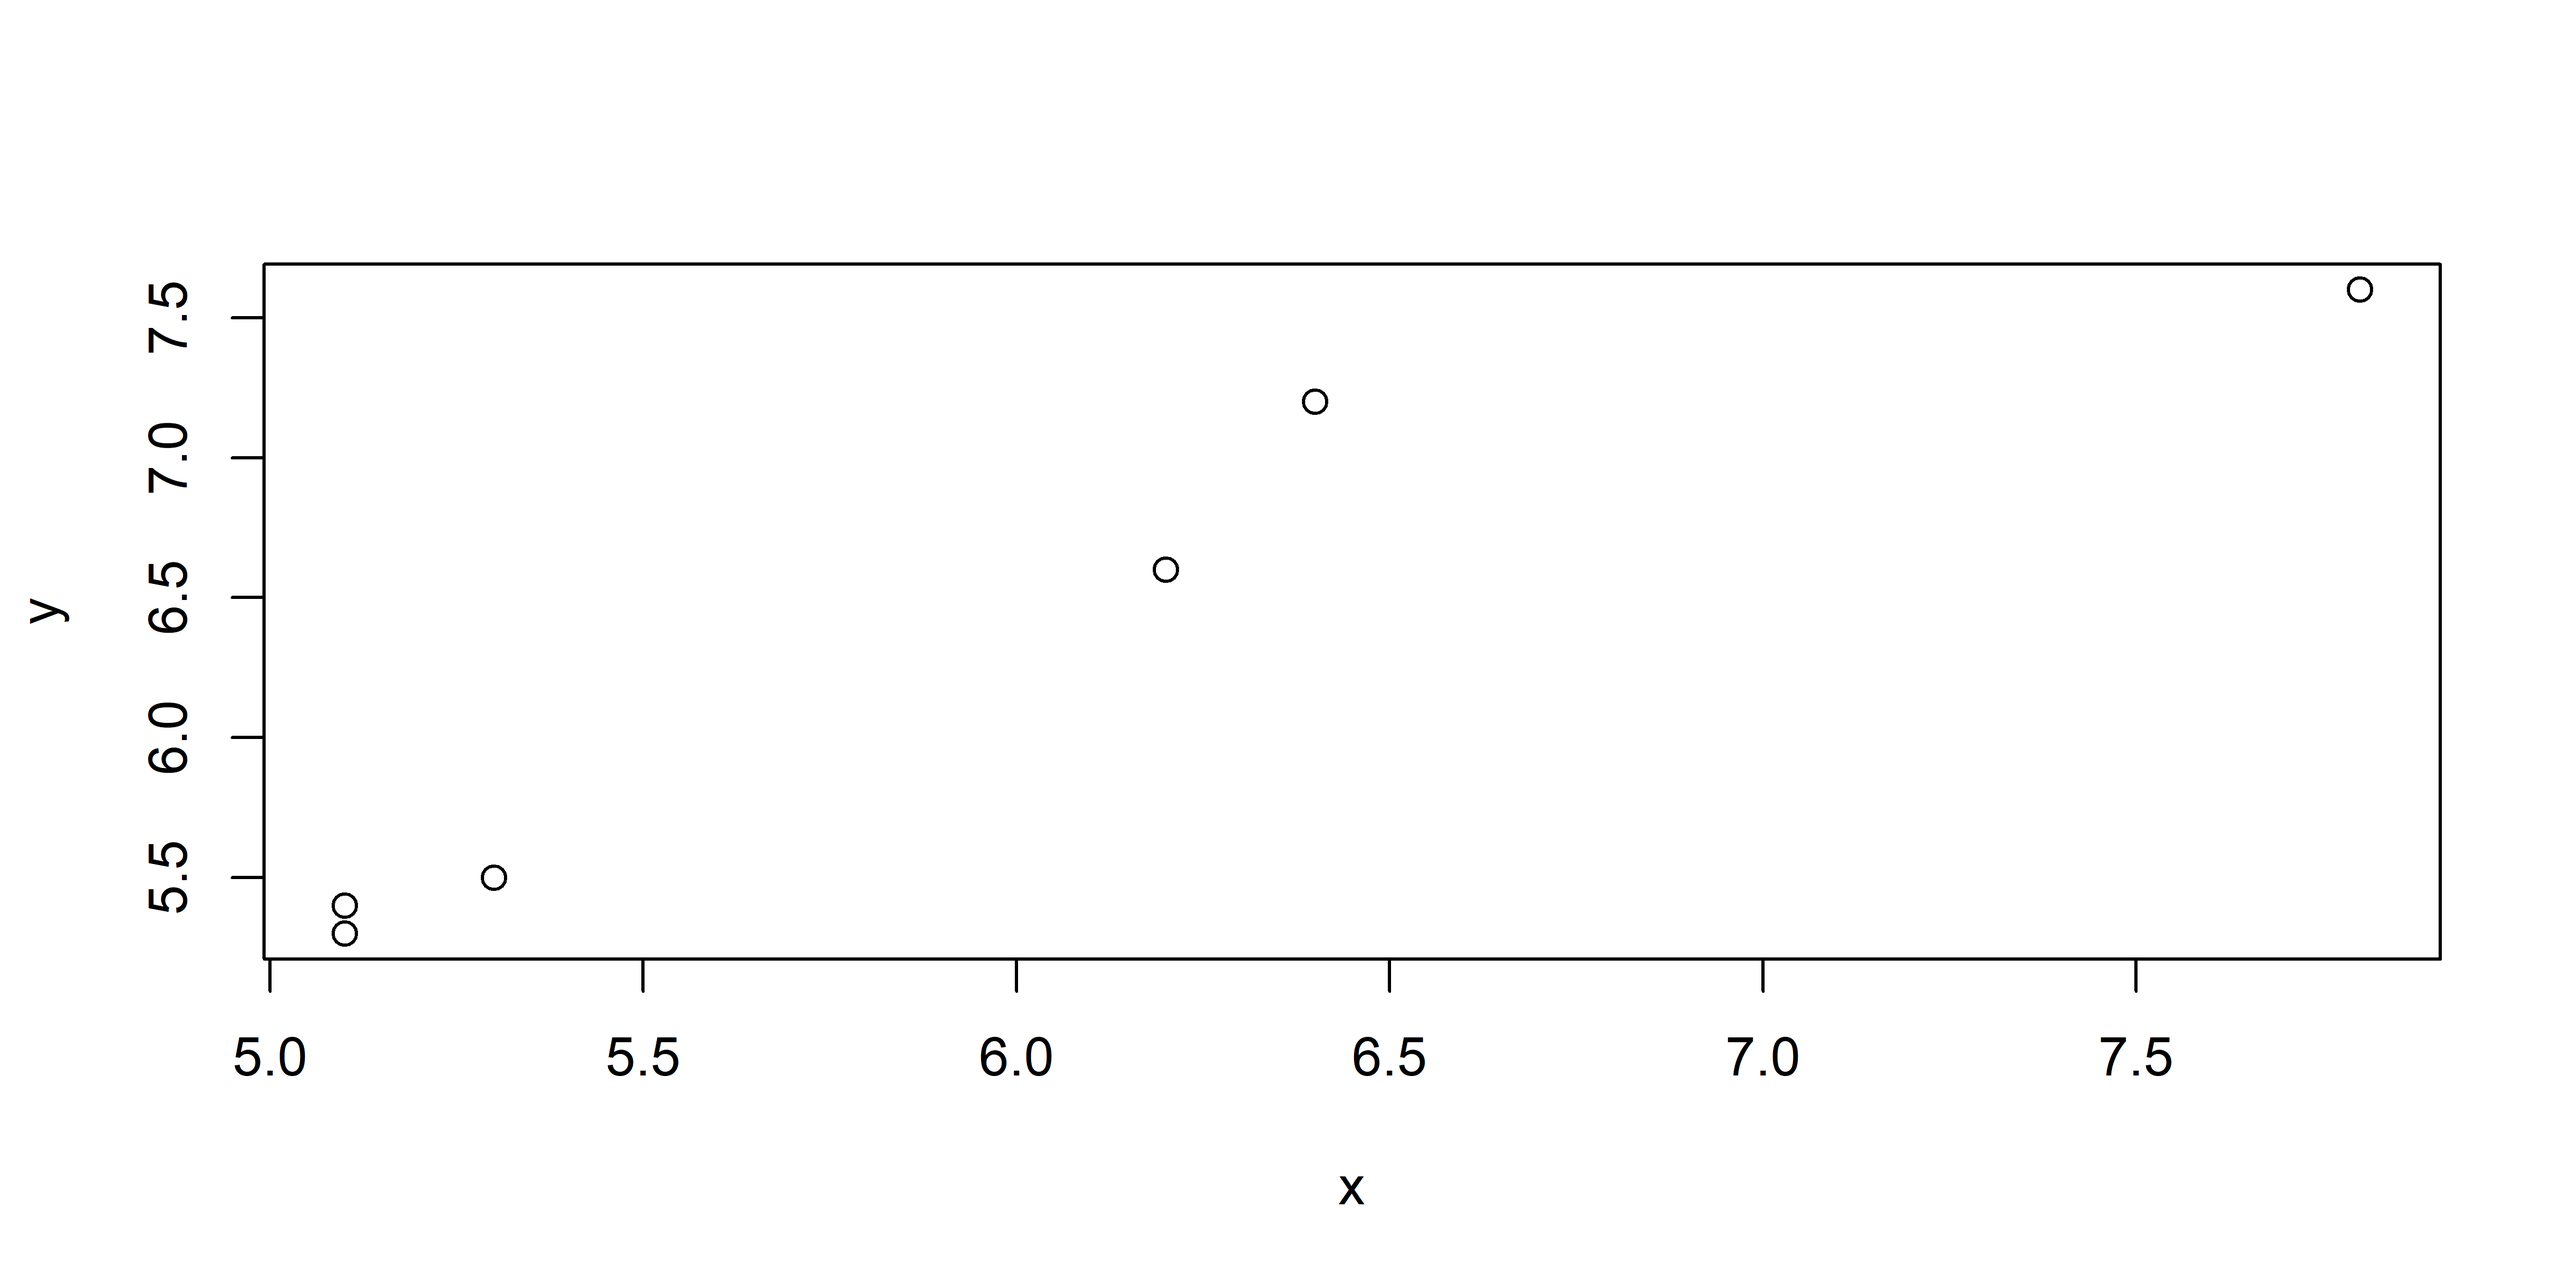
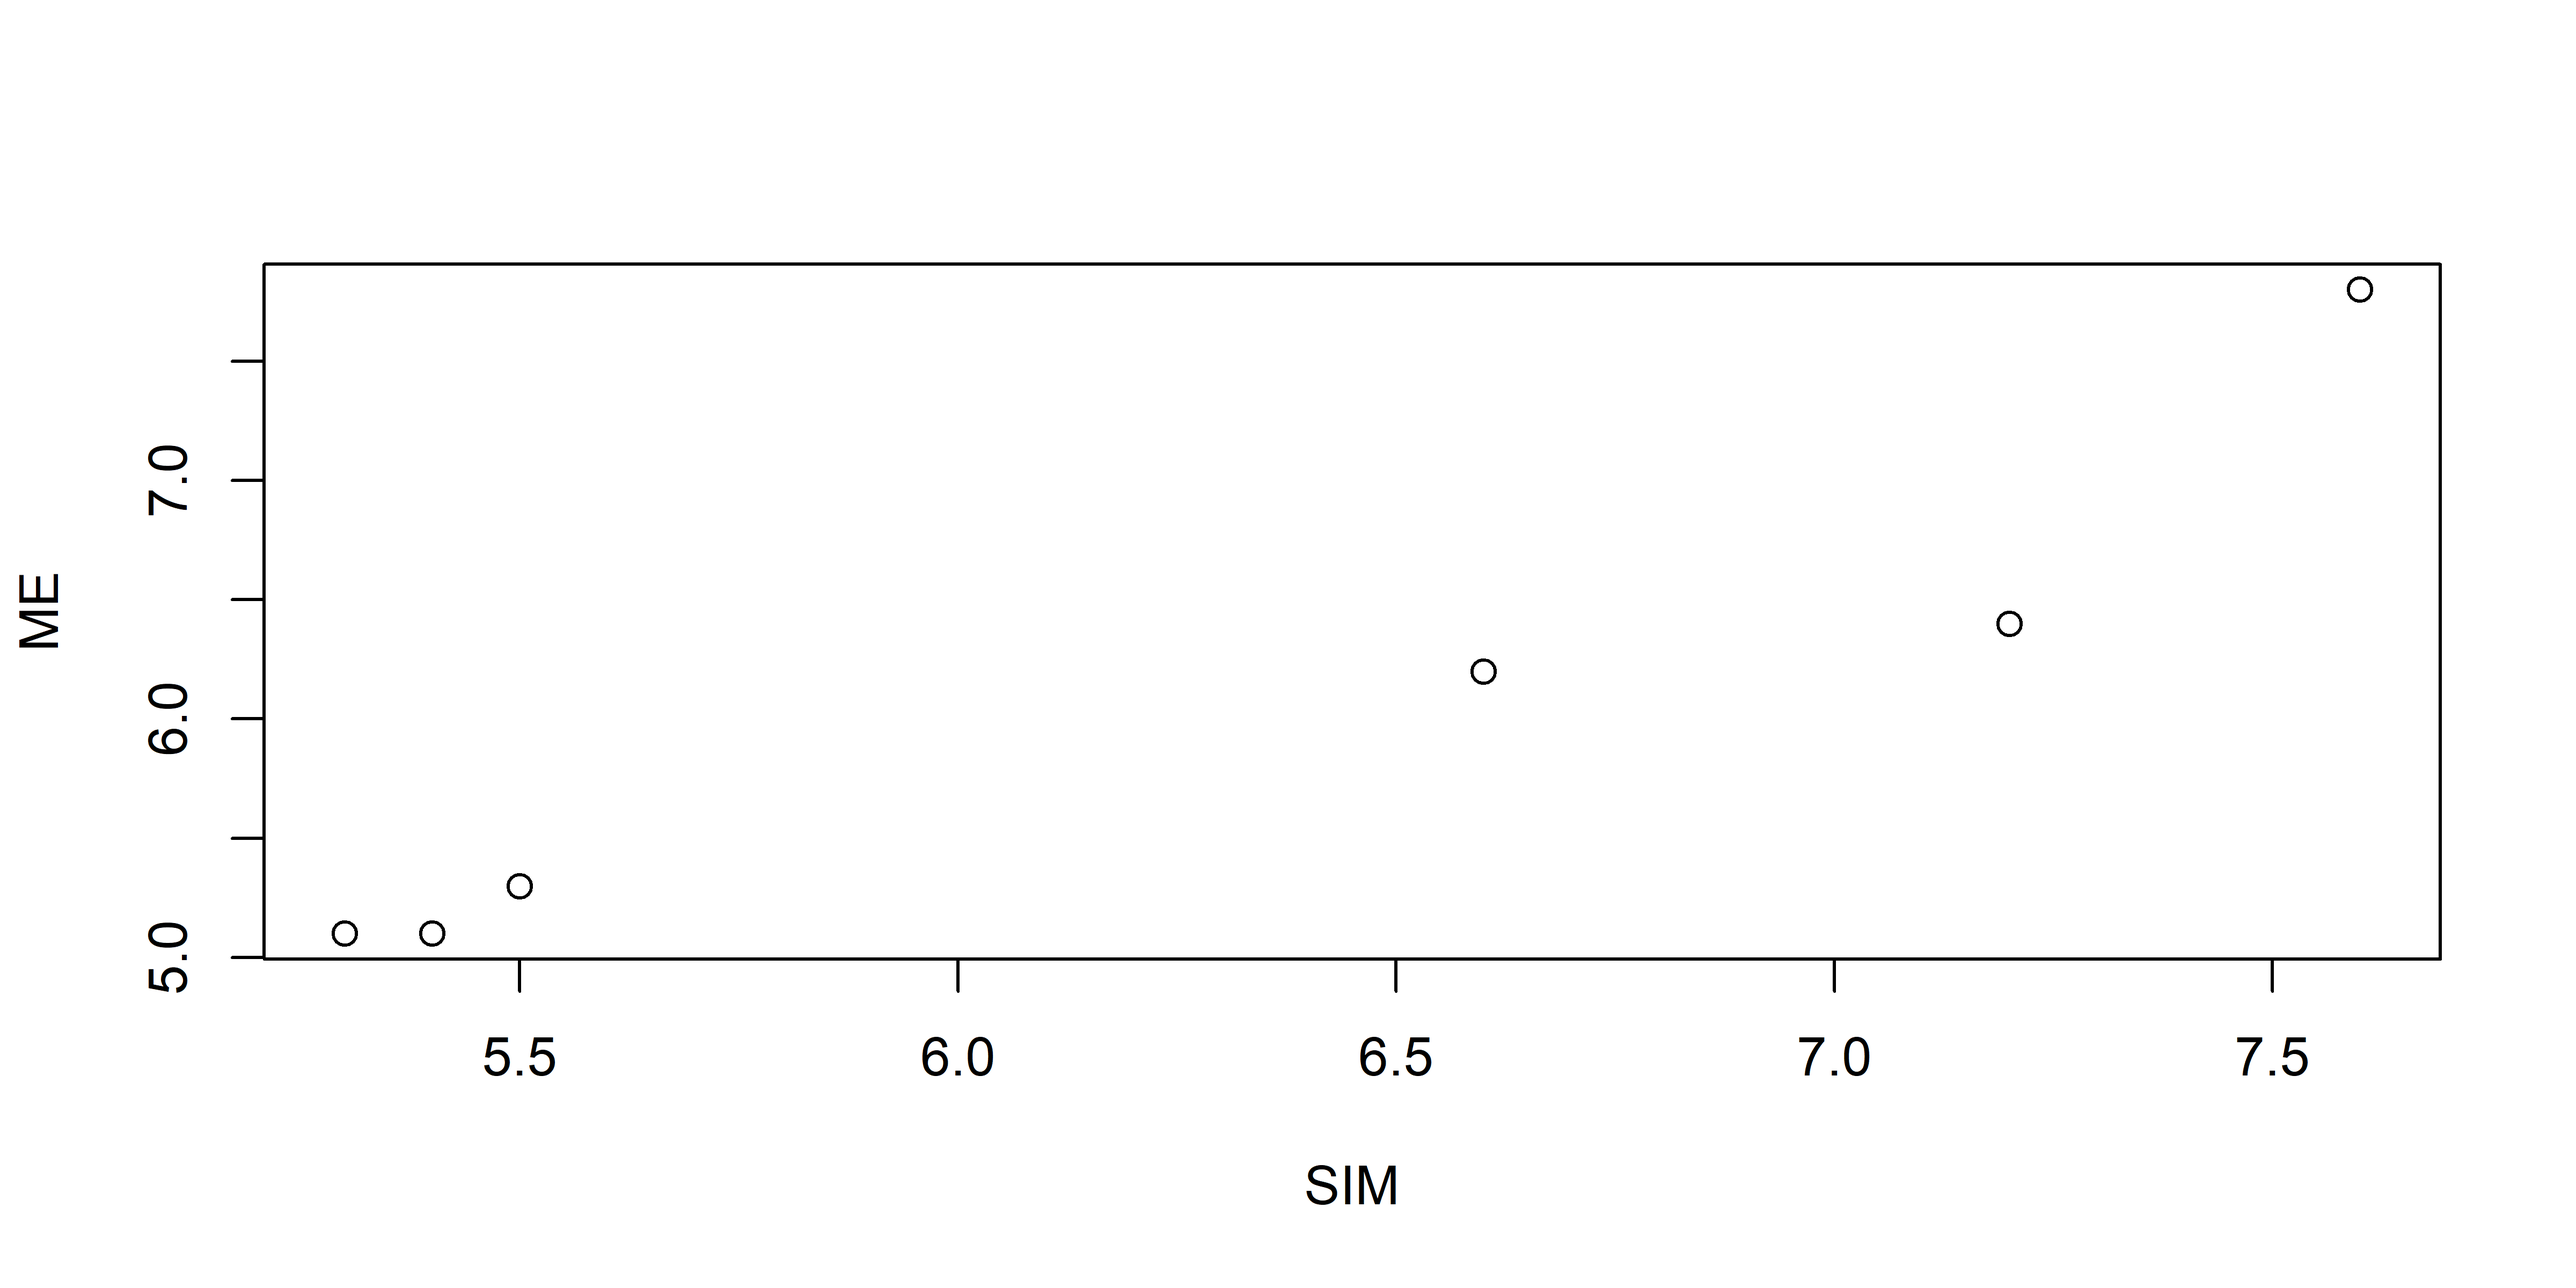
web

diff --git a/ListaEstatBasic.html b/ListaEstatBasic.html
@@ -456,11 +456,6 @@ div.tocify {
 </div>
 
 
-<pre class="r"><code>library(tidyverse)
-library(tinytex)
-library(knitr)
-library(kableExtra)
-library(xtable)</code></pre>
 <div id="estatística-descritiva" class="section level1" number="1">
 <h1><span class="header-section-number">1</span> Estatística descritiva</h1>
 <ol style="list-style-type: decimal">
@@ -950,7 +945,7 @@ dd &lt;- data.frame(ME=x, SIM=y)</code></pre>
 <ul>
 <li>Faça um diagrama de dispersão (<span class="math inline">\(ME\)</span> no eixo horizontal).</li>
 </ul>
-<pre class="r"><code>plot(y~x)</code></pre>
+<pre class="r"><code>plot(ME~SIM,data = dd)</code></pre>
 <div class="figure" style="text-align: center"><span style="display:block;" id="fig:unnamed-chunk-15"></span>
 <img src="Figuras1/unnamed-chunk-15-1.png" alt="TRUE" width="2400" />
 <p class="caption">
@@ -960,15 +955,15 @@ Figure 1.4: TRUE
 <ul>
 <li>Calcule a covariância da amostra.</li>
 </ul>
-<pre class="r"><code>cov(x,y)</code></pre>
+<pre class="r"><code>cov(dd$ME,dd$SIM)</code></pre>
 <pre><code>[1] 1.005333</code></pre>
 <ul>
 <li>Calcule e interprete a correlação da amostra.</li>
 </ul>
-<pre class="r"><code>cor(x,y)</code></pre>
+<pre class="r"><code>cor(dd$ME,dd$SIM)</code></pre>
 <pre><code>[1] 0.9511981</code></pre>
 <pre class="r"><code># ou 
-cov(x,y)/(sd(x)*sd(y))</code></pre>
+cov(dd$ME,dd$SIM)/(sd(dd$ME)*sd(dd$SIM))</code></pre>
 <pre><code>[1] 0.9511981</code></pre>
 </div>
 <div class="footnotes">
